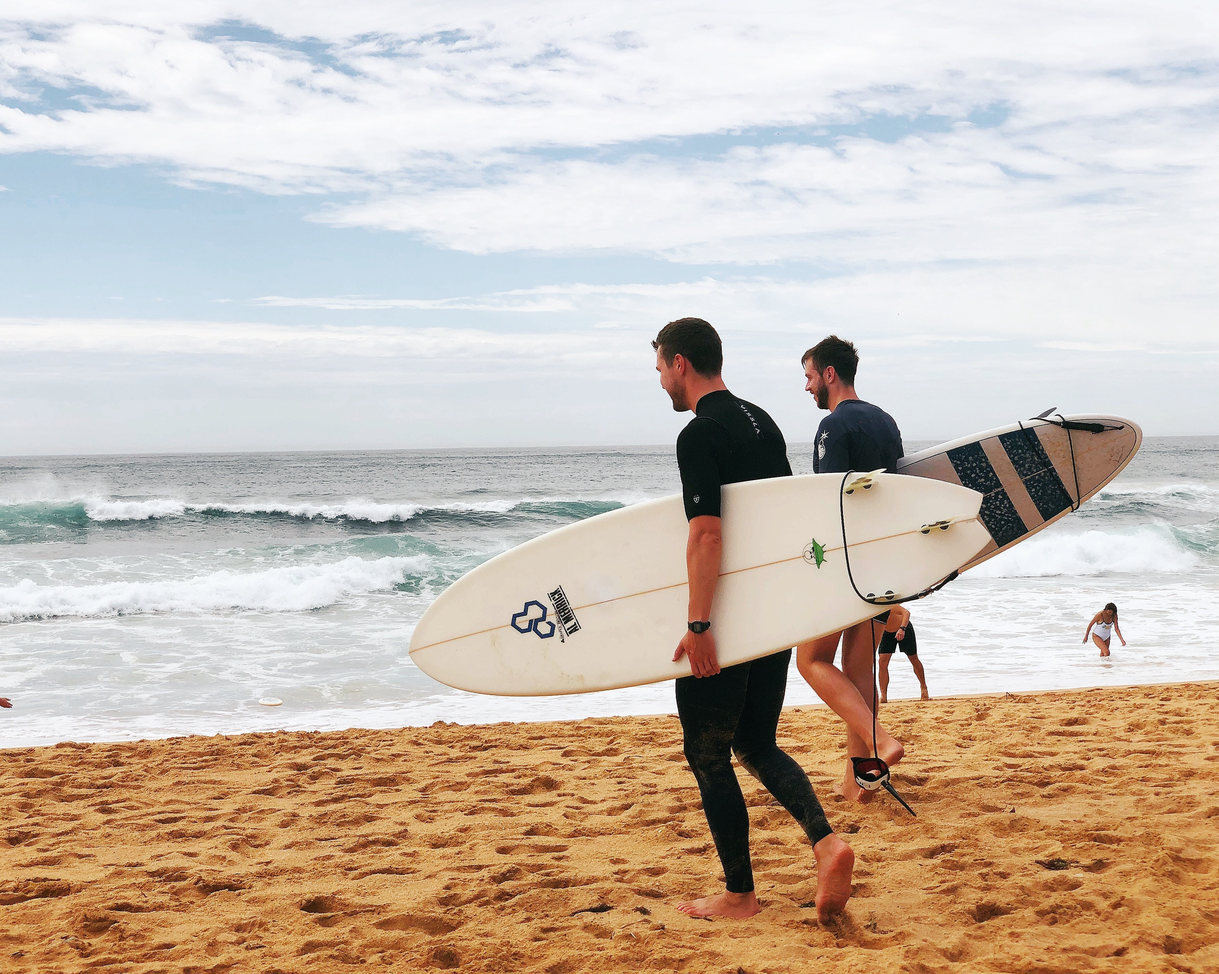
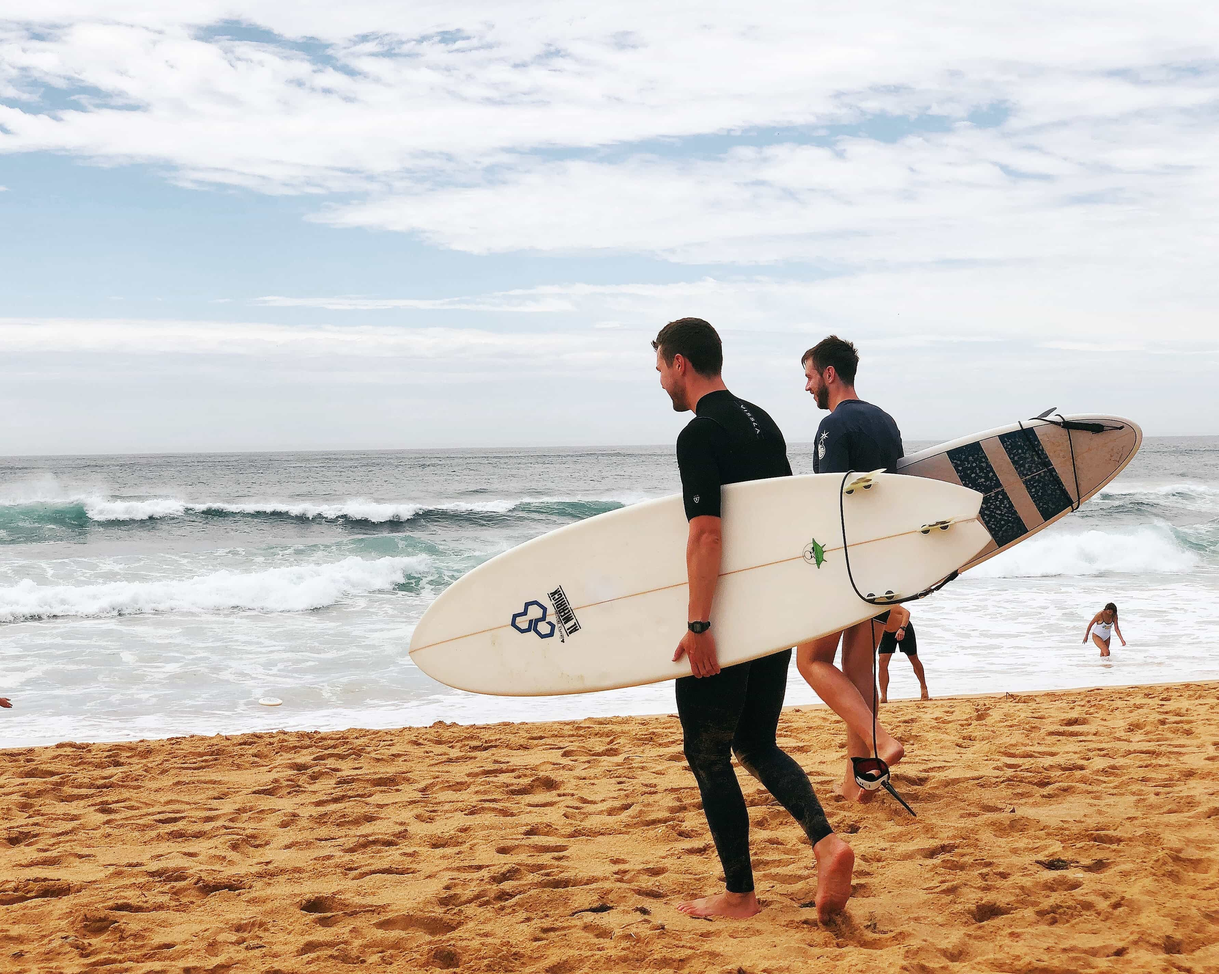
image update

diff --git a/src/components/ServiceFeature/index.js b/src/components/ServiceFeature/index.js
@@ -1,7 +1,7 @@
 import React from "react";
 import "./ServiceFeature.css";
 import image_1 from "../picture/surfingboard.jpg";
-import image_2 from "../picture/coaching.jpg";
+import image_2 from "../picture/coaching2.jpg";
 import image_3 from "../picture/shop.jpg";
 
 const ServiceFeature = () => {
